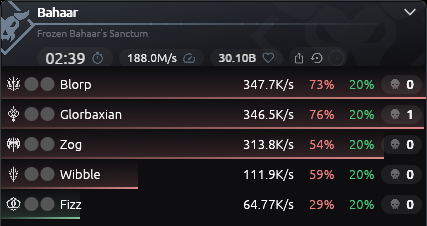
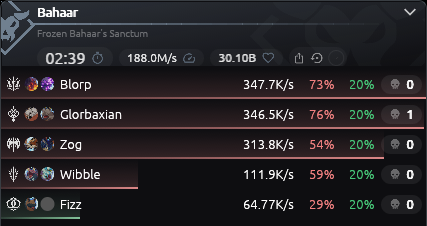
Populate demo-mode Imagine slots and recapture the README screenshot
DEMO_ROWS previously left every row's two Imagine slots as [None, None],
so the committed screenshot showed ten blank placeholder circles instead
of the feature #128 shipped. Add DEMO_IMAGINES with distinct curated
skill ids per row (one row keeps a single slot empty, since not every
real player fills both) and wire it into demo_snapshot(), then recapture
docs/images/overlay-demo.png the same way as before so the README shows
the column actually doing work.

diff --git a/crates/app/src/ui.rs b/crates/app/src/ui.rs
@@ -253,13 +253,32 @@ fn demo_enabled_from(var: Option<&str>) -> bool {
 /// *names* are deliberately fictional, not the reference screenshot's real
 /// character names — this repo is public, and `CONTRIBUTING.md` tells users
 /// not to share other players' names, so a demo capture headed for the
-/// README can't republish someone else's (issue #133).
+/// README can't republish someone else's (issue #133). The names have no
+/// counterpart in the reference screenshot to mirror, since the reference's
+/// underlying screenshot predates the Imagine column (issue #33/#128); see
+/// `DEMO_IMAGINES` below.
 const DEMO_ROWS: [(&str, Class, i64, f32, u32); 5] = [
     ("Blorp", Class::Stormblade, 55_300_000, 73.0, 0),
     ("Glorbaxian", Class::FrostMage, 55_100_000, 76.0, 1),
     ("Zog", Class::TwinStriker, 49_900_000, 54.0, 0),
     ("Wibble", Class::WindKnight, 17_800_000, 59.0, 0),
     ("Fizz", Class::VerdantOracle, 10_300_000, 29.0, 0),
+];
+
+/// Equipped-Imagine skill ids for each `DEMO_ROWS` row's two slots, demo-only
+/// and with no reference-screenshot counterpart (issue #133): the reference
+/// capture predates the Imagine column, so unlike `DEMO_ROWS`'s other
+/// fields, these ids aren't mirroring anything — they're picked from
+/// `imagines::imagine_of_skill_id`'s curated table purely so a demo capture
+/// shows the column doing real work instead of ten blank placeholder
+/// circles. The last row keeps one slot empty on purpose, since not every
+/// real player fills both.
+const DEMO_IMAGINES: [[Option<i32>; 2]; 5] = [
+    [Some(3901), Some(3902)],
+    [Some(3903), Some(3904)],
+    [Some(3905), Some(3906)],
+    [Some(3907), Some(3908)],
+    [Some(3909), None],
 ];
 
 /// The synthetic snapshot `demo_enabled` seeds the overlay with. Values
@@ -279,7 +298,7 @@ fn demo_snapshot() -> Snapshot {
             class: Some(class),
             ability_score: None,
             season_strength: None,
-            imagines: [None, None],
+            imagines: DEMO_IMAGINES[i],
             damage,
             dps: damage as f64 / (duration_ms as f64 / 1000.0),
             share_pct: damage as f32 / row_damage_sum as f32 * 100.0,
